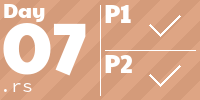
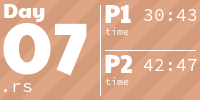
clippy fix

diff --git a/2025/src/bin/07.rs b/2025/src/bin/07.rs
@@ -1,6 +1,6 @@
 #![warn(clippy::pedantic, clippy::perf)]
 
-use aoc_shared::{time_execution, time_execution_us, Grid, Point};
+use aoc_shared::{time_execution_us, Grid, Point};
 use std::collections::HashMap;
 static INPUT_TXT: &str = include_str!("../../input/07.txt");
 
@@ -9,8 +9,8 @@ fn main() {
     let (res_1, duration_1) = time_execution_us(|| part_1(INPUT_TXT));
     println!("📌 Part 1: {res_1}, complete in {duration_1} us");
 
-    let (res_2, duration_2) = time_execution(|| part_2(INPUT_TXT));
-    println!("📌 Part 2: {res_2}, complete in {duration_2} ms");
+    let (res_2, duration_2) = time_execution_us(|| part_2(INPUT_TXT));
+    println!("📌 Part 2: {res_2}, complete in {duration_2} us");
 }
 
 fn parse_input(input: &str) -> Grid<char> {

diff --git a/README.md b/README.md
@@ -4,10 +4,10 @@ Solutions for [adventofcode.com](https://adventofcode.com)
 
  <!-- AOC TILES BEGIN -->
 <h1 align="center">
-  Advent of Code - 295/512 ⭐
+  Advent of Code - 297/514 ⭐
 </h1>
 <h1 align="center">
-  2025 - 12 ⭐ - Rust
+  2025 - 14 ⭐ - Rust
 </h1>
 <a href="2025/src/bin/01.rs">
   <img src=".aoc_tiles/tiles/2025/01.png" width="161px">
@@ -26,6 +26,9 @@ Solutions for [adventofcode.com](https://adventofcode.com)
 </a>
 <a href="2025/src/bin/06.rs">
   <img src=".aoc_tiles/tiles/2025/06.png" width="161px">
+</a>
+<a href="2025/src/bin/07.rs">
+  <img src=".aoc_tiles/tiles/2025/07.png" width="161px">
 </a>
 <h1 align="center">
   2024 - 50 ⭐ - Rust
